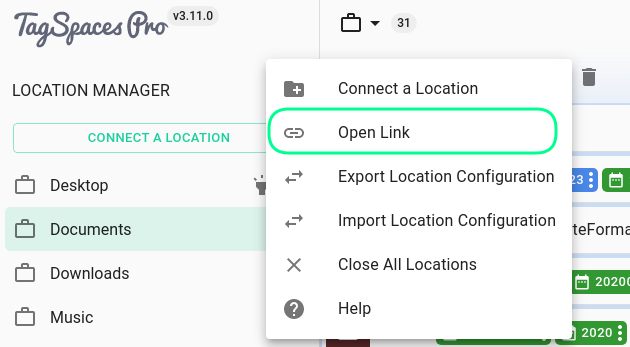
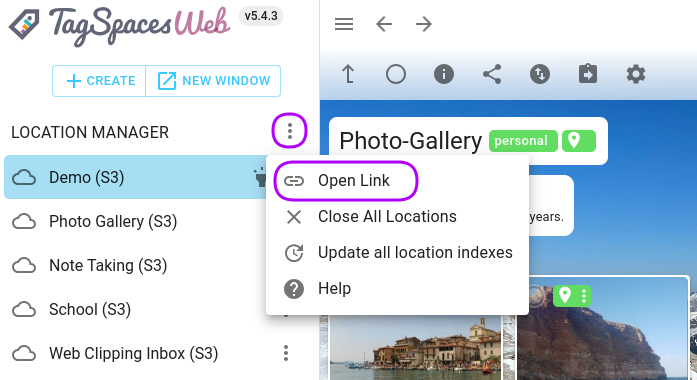
updating sharing and linking docs

diff --git a/sidebars.js b/sidebars.js
@@ -311,7 +311,7 @@ module.exports = {
         {
           type: "link",
           label: "Custom Thumbnail",
-          href: "/thumbnails/#custom-thumbnail",
+          href: "/thumbnails/#custom-thumbnails",
         },
         "dev/metafileformats",
         "dev/external-config",

diff --git a/docs/sharing.md b/docs/sharing.md
@@ -2,38 +2,96 @@
 title: Share files and folders
 ---
 
-import { ProFeature, EntFeature, CenteredImage, CenteredVideo } from '@site/src/components/CommonBlocks';
+import { ProFeature, EntFeature, CenteredImage, CenteredVideo, FullScreenImage } from '@site/src/components/CommonBlocks';
 
 You can share files in two ways, here you will find how this can be done.
 
 ## Internal sharing for files and folders
 
-The first one which was introduced in version 3.8 is called "Link for internal sharing", available in the left part of the previous screenshot. It is intended for sharing links to files anf folders with other TagSpaces users. Those links will work on locations which are synced with tools such Dropbox, Google Drive or Nextcloud. Other important requirement is that those location should have the same location id. The location id can be changed in the advanced settings of the location properties.
+The first one which was introduced back in version 3.8 is called "Sharing", as seen in the next screenshot. It is intended for sharing links to files anf folders with other TagSpaces users and installations. These links will work on object storage locations or local locations synced with tools such as Dropbox, Google Drive or Syncthing. Other important requirement is that these location should have the [same location id](/linking#location-ids).
 
 <CenteredImage
-    caption="Sharing link types in the entry properties"
-    src="/media/sharing-files.png"
-    maxWidth="700px"
+    caption="Sharing link file and folder properties"
+    src="/media/sharing-link.png"
+    maxWidth="778px"
     showCaption
   />
 
-Once copied to the clipboard with the **COPY**-button, the links can be shared for example per email or via messenger. The person with which you share the link needs TagSpaces in order to open it. She just needs to open the three-dot menu of the location area and click on the **Open Link**, as showed in the next screenshot.
+Once copied to the clipboard with the **COPY** button, the link can be shared for example per email or via messenger. The person with which you share the link have to open his installation of TagSpaces and paste the link in the search box of the app and hit enter.
+
+<CenteredImage
+    caption="Open TS-Links from the search box"
+    src="/media/tslinks-in-search.png"
+    showCaption
+  />
+
+Alternatively she can navigation to the locations section and open the three-dot menu and choose on the **Open Link**, as showed in the next screenshot.
 
 <CenteredImage
     caption="Open shared links in TagSpaces"
     src="/media/open-shared-links.png"
-    maxWidth="500px"
+    maxWidth="697px"
     showCaption
   />
 
-## File sharing for downloading
+:::info
+This kind of links can be also used for internal links in TagSpaces, more on this topic can be found in the a dedicated [linking section](/linking).
+:::
+
+## Sharing download link to a file
 
 <ProFeature />
 
-The second kind of sharing links are called "Links for downloading" and are available only for files located on object storages such AWS S3 or MinIO servers. The area responsible for this kind of links is located on the right part of the sharing area. It consists of three elements as seen in the screenshot before the previous one:
+The second kind of sharing links are called "Links for downloading" and are available only for only files (not folders) located on object storages (e.g. AWS S3 or MinIO). The place responsible for this links is located in the file properties and is marked in the next screenshot.
 
-- A dropdown where you can select the adjust the **validity duration** of the link. Available options are: 15 minutes, 1 hour, 1 day, 3 days and 1 week
-- A **Generate & Copy**-button which will generate the link and copy it to the clipboard
-- And a text field where the link is places after the generation
+<CenteredImage
+    caption="Download links in the file properties"
+    src="/media/download-link.png"
+    maxWidth="778px"
+    showCaption
+  />
 
-The generated link can be shared to anyone so he/she can start downloading the file.
+The click on the **Generate Link** button will open the following dialog:
+
+<CenteredImage
+    caption="Generating the download links"
+    src="/media/generate-download-link.png"
+    maxWidth="595px"
+    showCaption
+  />
+
+Here you can have the following options:
+
+- Ability to adjust the **validity duration** of the link. Currently supported are these durations: 15 minutes, 1 hour, 1 day, 3 days and 1 week.
+- The **Copy** button copies the link to the clipboard, so you can use it in some other application.
+- A **QR-code** of the link is automatically generated on opening the dialog. By changing the duration, the QR-code is automatically re-generated.
+
+The generated link can be shared for example via chat ot email so the counterpart, so opening it in a browser will initiate the download. If the link is expired the user will see the following message:
+
+<CenteredImage
+    caption="Expired download links"
+    src="/media/expired-download-link.png"
+    maxWidth="797px"
+    showCaption
+  />
+
+### Downloading directly in locations
+
+It is possible to download such links also directly in a TagSpaces locations, without the need of a browser. Just go to the file create dialog, click on **More options**, paste the link in the URL text field and click the **Start the Download** button. The file will be saved in the current folder of your current location.
+
+<CenteredImage
+    caption="Download in locations"
+    src="/media/create-dialog-download-links.png"
+    maxWidth="592px"
+    showCaption
+  />
+
+### Downloading links on your phone
+
+If you point the camera of your phone or tablet to the QR-code, the link should be automatically recognized and then you can initiate its opening in your mobile browser. This is the easiest way to transfer files from your object storage locations to mobile devices.
+
+## Sharing many files at once
+
+<ProFeature />
+
+If you want to share the files from a given folder, just of them or your current search results, you will need a functionality for sharing many files at once.

diff --git a/docs/linking.md b/docs/linking.md
@@ -1,15 +1,13 @@
 ---
-title: Link files, folders and locations
+title: Link to files, folders and locations
 ---
 
-import { ProFeature, CenteredImage, CenteredVideo } from '@site/src/components/CommonBlocks';
+import { ProFeature, CenteredImage, CenteredVideo, FullScreenImage } from '@site/src/components/CommonBlocks';
 import VideoYT from '@site/src/components/VideoYT';
 
 <ProFeature />
 
-### General explanation
-
-One long awaited functionality is the ability to create links between files managed in TagSpaces, so you can navigate from one file to another. The description field of any file or folder can contain links to other files, folders or locations. If you are using markdown for your notes you can place the same kind of links in content of the markdown file.
+One long awaited functionality is the ability to create links between files managed in TagSpaces, so you can navigate from one file to another file, folder or location. The description field of any file or folder can contain links to other files, folders or locations. If you are using markdown for your notes you can place the same kind of links in content of the markdown file.
 
 <VideoYT
     youtubeId="3F2YUKd6rDc"
@@ -24,6 +22,34 @@ The context menu of every file and folder in the default perspective now have th
     caption="Context menu of a file containing the 'Copy Sharing Link' functionality"
     src="/media/copy-sharing-link.png"
   />
+
+### Location IDs
+
+:::info
+Info you share links between TagSpaces user, you have to make sure that the location in their TagSpaces' installation have the **same IDs**, otherwise the links will not work. This links will work also on folder synced with services like Dropbox or Syncthing.
+:::
+
+The location id can be changed in the locations properties, shown in the next screenshot. On S3 location you have also make sure that the location connects to the same sub folder of the connected bucket.
+
+<CenteredImage
+  caption="Changing the location ID"
+  src="/media/changing-location-id.png"
+  maxWidth="515px"
+/>
+
+### Links in the web versions ot TagSpaces
+
+The users of the web versions can directly copy the URL from their browser or using the copy button from the properties area.
+
+<CenteredImage
+    caption="Sharing link types in the entry properties"
+    src="/media/tagspaces-links.png"
+    showCaption
+  />
+
+:::info
+The advantage of the copying the URL from the browser is the URL can be directly used by the person receiving it to open the same installation in her browser.
+:::
 
 ### Opening TagSpaces links from the search
 

diff --git a/docs/tutorials/tagspaces-web-docker.md b/docs/tutorials/tagspaces-web-docker.md
@@ -35,9 +35,11 @@ Once the container is build you can run it with this command:
 
     docker run -dp 127.0.0.1:5000:80 tagspaces-lite-web:5.4.2
 
-Where 5000 is the port on your local machine which is forwarded to port 80 of the docker container.
+Where `5000` is the port on your local machine which is forwarded to port `80` of the docker container.
 
 ### Add basic auth
+
+The easiest way to secure your TagSpaces installation is to add a basic auth in front of it.
 
     sudo docker cp ./default.conf tagspaces-lite-web:/etc/nginx/conf.d/
 
@@ -48,6 +50,10 @@ Where 5000 is the port on your local machine which is forwarded to port 80 of th
 ### Installing SSL certificate from Let's encrypt
 
 TBD
+
+SSL certificates are needed for your TagSpaces installation and for the object storage service (e.g. Minio, Zenko)
+
+A very good tutorial for Ubuntu and Apache is this one: [How to Set up Let's Encrypt on an Intranet Website](https://davidaugustat.com/web/set-up-lets-encrypt-on-intranet-website)
 
 ### Renew the SSL certificate
 
